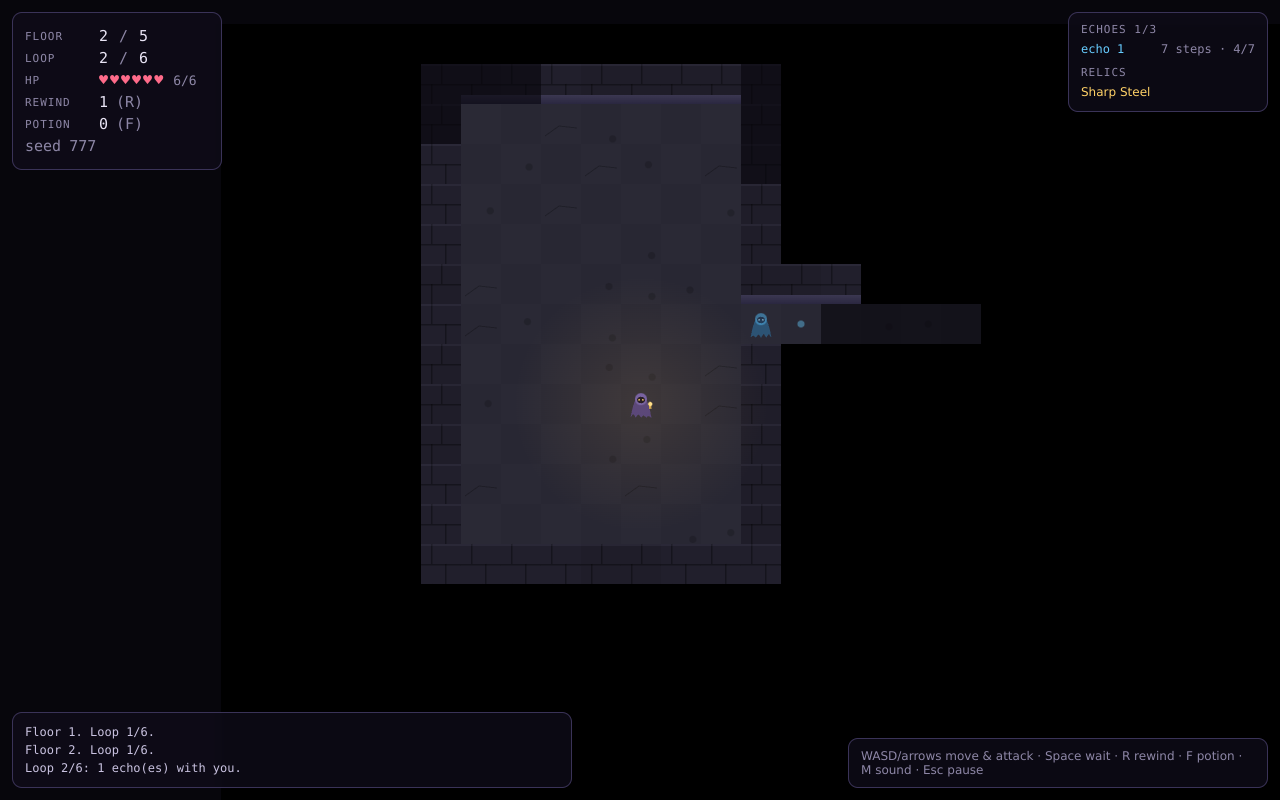
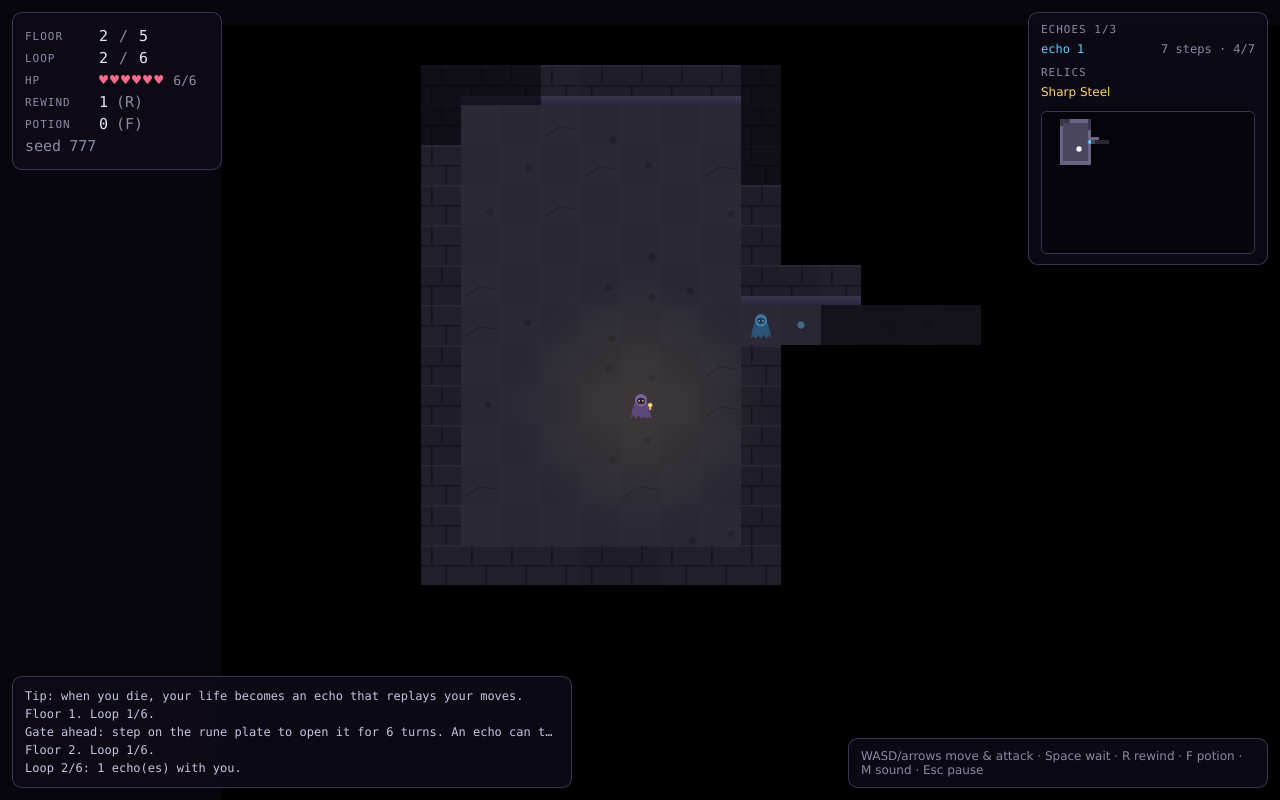
Echo Loop: minimap

diff --git a/echo-loop/src/main.js b/echo-loop/src/main.js
@@ -4,6 +4,8 @@ import { nextStep } from './core/pathfind.js';
 import { RELICS, FLOOR_COUNT, modsOf, PLAYER_BASE } from './core/entities.js';
 import { Renderer, createView, consumeEvents } from './render/renderer.js';
 import { Sfx } from './audio.js';
+import { computeFov } from './core/fov.js';
+import { T } from './core/grid.js';
 
 const canvas = document.getElementById('game');
 const renderer = new Renderer(canvas);
@@ -252,12 +254,47 @@ function updateHud() {
         .join('')
     : '<div class="dim small">none yet. Die to create one.</div>';
   $('relic-list').textContent = G.relics.length ? G.relics.map((id) => RELICS.find((r) => r.id === id).name).join(' · ') : 'none';
+  drawMinimap();
   const logEl = $('log');
   logEl.innerHTML = G.log
     .slice(-6)
     .reverse()
     .map((l) => `<div class="entry">${escapeHtml(l)}</div>`)
     .join('');
+}
+
+/** Minimap: explored tiles, visible enemies, player, echoes, exit. Drawn on each state change. */
+function drawMinimap() {
+  const cv = $('minimap');
+  const ctx = cv.getContext('2d');
+  const m = G.map;
+  const k = Math.min(cv.width / m.w, cv.height / m.h);
+  const ox = Math.floor((cv.width - m.w * k) / 2);
+  const oy = Math.floor((cv.height - m.h * k) / 2);
+  ctx.fillStyle = '#05040a';
+  ctx.fillRect(0, 0, cv.width, cv.height);
+  const vis = computeFov(G, G.player.x, G.player.y, modsOf(G.relics).lantern);
+  for (let y = 0; y < m.h; y++)
+    for (let x = 0; x < m.w; x++) {
+      const i = y * m.w + x;
+      if (!G.explored[i]) continue;
+      const t = m.tiles[i];
+      if (t === T.WALL) ctx.fillStyle = vis[i] ? '#6b6585' : '#3a3550';
+      else if (t === T.EXIT) ctx.fillStyle = '#c49bff';
+      else if (t === T.DOOR) ctx.fillStyle = G.door.open ? '#78c8ff' : '#8a5a3c';
+      else if (t === T.PLATE) ctx.fillStyle = '#78ffc8';
+      else ctx.fillStyle = vis[i] ? '#4a4660' : '#2a2838';
+      ctx.fillRect(ox + x * k, oy + y * k, Math.ceil(k), Math.ceil(k));
+    }
+  const dot = (x, y, col, r = 2) => {
+    ctx.fillStyle = col;
+    ctx.beginPath();
+    ctx.arc(ox + (x + 0.5) * k, oy + (y + 0.5) * k, r, 0, Math.PI * 2);
+    ctx.fill();
+  };
+  for (const e of G.enemies) if (e.hp > 0 && vis[e.y * m.w + e.x]) dot(e.x, e.y, '#ff5566', 2);
+  for (const e of G.echoes) if (e.hp > 0) dot(e.x, e.y, '#66ccff', 2);
+  dot(G.player.x, G.player.y, '#ffffff', 2.6);
 }
 
 function escapeHtml(s) {

diff --git a/echo-loop/src/ui/style.css b/echo-loop/src/ui/style.css
@@ -76,3 +76,6 @@ button.btn.primary { background: #3c2a7a; border-color: #9a7cff; }
 .relic-card .desc { color: #cfc8e8; font-size: 14px; line-height: 1.45; }
 .stats { font-family: var(--mono); color: #cfc8e8; margin: 18px 0; line-height: 1.8; }
 .stats b { color: var(--gold); }
+
+#minimap-wrap { margin-top: 10px; }
+#minimap { display: block; width: 100%; height: auto; image-rendering: pixelated; border: 1px solid var(--edge); border-radius: 6px; background: #05040a; }

diff --git a/echo-loop/index.html b/echo-loop/index.html
@@ -23,6 +23,7 @@
       <div id="echo-list"></div>
       <div class="label" style="margin-top:10px">RELICS</div>
       <div id="relic-list" class="small"></div>
+      <div id="minimap-wrap"><canvas id="minimap" width="240" height="160"></canvas></div>
     </div>
     <div id="log" class="panel"></div>
     <div id="help" class="panel small dim">WASD/arrows move &amp; attack · Space wait · R rewind · F potion · M sound · Esc pause</div>

diff --git a/DESIGN.md b/DESIGN.md
@@ -134,7 +134,7 @@ echo-loop/
 | Зелья | реализовано | 2–3 на этаж |
 | Реликвии | реализовано, **отклонение** | 7 реликвий. Вместо «Stillness» и «Loud Feet» — `Extra Loop` (+1 попытка на этаж). «Stillness» не реализован |
 | Туман войны | реализовано | explored/visible; `src/core/fov.js` |
-| Мини-карта (M) | **не реализовано** | клавиша M выключает звук; мини-карты нет |
+| Мини-карта | реализовано | правый верхний угол под реликвиями; показывает только исследованное и видимых врагов. Клавиша M — звук |
 | Звук | реализовано (синтез), **не проверено на слух** | WebAudio-код есть; в среде нет устройства вывода для прослушивания |
 | Сохранение лучшего результата | реализовано | localStorage `echoloop.best` |
 | Пиксель-арт из текстовых карт | **отклонение** | спрайты рисуются примитивами Canvas (`src/render/sprites.js`) |
